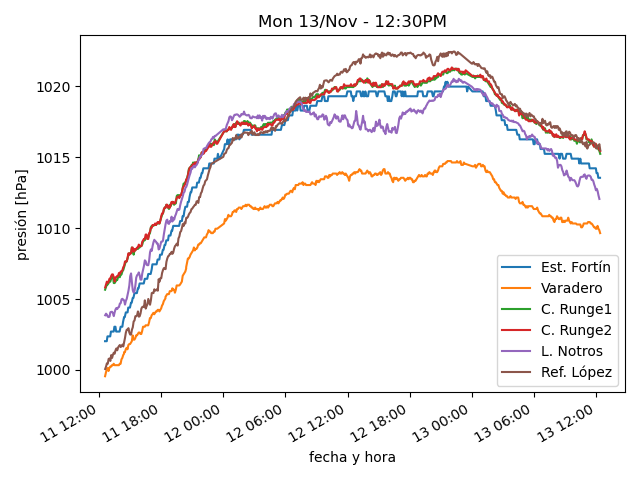
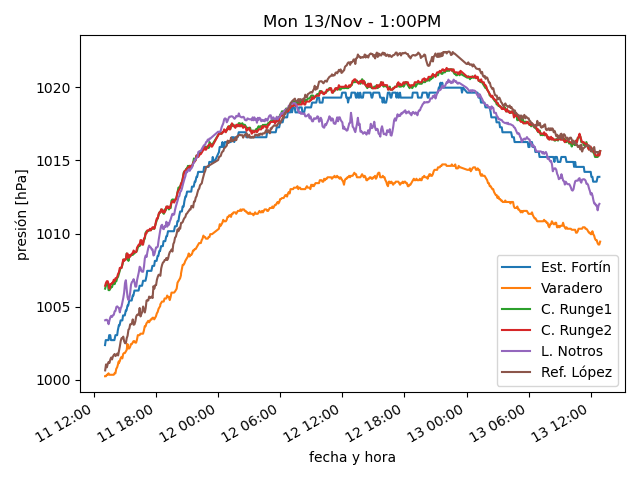
actualiza datos

diff --git a/estaciones/estacion2.html b/estaciones/estacion2.html
@@ -18,32 +18,32 @@
     </tr>
     <tr>
      <td class="stats_data">
-      12:24PM
+      12:54PM
      </td>
     </tr>
     <tr>
      <td class="stats_data">
-      7.2⁰C
+      7.7⁰C
      </td>
     </tr>
     <tr>
      <td class="stats_data">
-      4.2⁰C
+      4.4⁰C
      </td>
     </tr>
     <tr>
      <td class="stats_data">
-      80.9%
+      79.9%
      </td>
     </tr>
     <tr>
      <td class="stats_data">
-      1019.13hPa
+      1018.93hPa
      </td>
     </tr>
     <tr>
      <td class="stats_data">
-      33.8/39.3 km/hr NW
+      39.9/46.7 km/hr NW
      </td>
     </tr>
     <tr>
@@ -53,12 +53,12 @@
     </tr>
     <tr>
      <td class="stats_data">
-      9.0
+      8.0
      </td>
     </tr>
     <tr>
      <td class="stats_data">
-      1002.9 W/m²
+      861.1 W/m²
      </td>
     </tr>
    </tbody>

diff --git a/estaciones/estacion1.html b/estaciones/estacion1.html
@@ -18,32 +18,32 @@
     </tr>
     <tr>
      <td class="stats_data">
-      12:23PM
+      12:49PM
      </td>
     </tr>
     <tr>
      <td class="stats_data">
-      8.7⁰C
+      9.0⁰C
      </td>
     </tr>
     <tr>
      <td class="stats_data">
-      0.5⁰C
+      0.8⁰C
      </td>
     </tr>
     <tr>
      <td class="stats_data">
-      56.5%
+      56.3%
      </td>
     </tr>
     <tr>
      <td class="stats_data">
-      1013.55hPa
+      1013.88hPa
      </td>
     </tr>
     <tr>
      <td class="stats_data">
-      21.1/37.8 km/hr W
+      26.9/43.5 km/hr W
      </td>
     </tr>
     <tr>
@@ -53,12 +53,12 @@
     </tr>
     <tr>
      <td class="stats_data">
-      6.5
+      6.6
      </td>
     </tr>
     <tr>
      <td class="stats_data">
-      1072.0 W/m²
+      995.0 W/m²
      </td>
     </tr>
    </tbody>

diff --git a/estaciones/estacion4.html b/estaciones/estacion4.html
@@ -18,32 +18,32 @@
     </tr>
     <tr>
      <td class="stats_data">
-      12:24PM
+      12:54PM
      </td>
     </tr>
     <tr>
      <td class="stats_data">
-      8.8⁰C
+      7.7⁰C
      </td>
     </tr>
     <tr>
      <td class="stats_data">
-      2.6⁰C
+      2.4⁰C
      </td>
     </tr>
     <tr>
      <td class="stats_data">
-      64.9%
+      69.4%
      </td>
     </tr>
     <tr>
      <td class="stats_data">
-      1012.43hPa
+      1012.63hPa
      </td>
     </tr>
     <tr>
      <td class="stats_data">
-      7.2/11.3 km/hr S
+      6.5/10.0 km/hr NW
      </td>
     </tr>
     <tr>
@@ -53,12 +53,12 @@
     </tr>
     <tr>
      <td class="stats_data">
-      10.0
+      7.0
      </td>
     </tr>
     <tr>
      <td class="stats_data">
-      1044.3 W/m²
+      759.4 W/m²
      </td>
     </tr>
    </tbody>

diff --git a/estaciones/estacion3.html b/estaciones/estacion3.html
@@ -18,12 +18,12 @@
     </tr>
     <tr>
      <td class="stats_data">
-      12:24PM
+      12:54PM
      </td>
     </tr>
     <tr>
      <td class="stats_data">
-      7.3⁰C
+      6.3⁰C
      </td>
     </tr>
     <tr>
@@ -33,17 +33,17 @@
     </tr>
     <tr>
      <td class="stats_data">
-      72.9%
+      77.8%
      </td>
     </tr>
     <tr>
      <td class="stats_data">
-      1003.52hPa
+      1003.93hPa
      </td>
     </tr>
     <tr>
      <td class="stats_data">
-      16.1/24.2 km/hr NW
+      19.0/26.8 km/hr NW
      </td>
     </tr>
     <tr>
@@ -53,12 +53,12 @@
     </tr>
     <tr>
      <td class="stats_data">
-      12.0
+      8.0
      </td>
     </tr>
     <tr>
      <td class="stats_data">
-      1059.8 W/m²
+      756.5 W/m²
      </td>
     </tr>
    </tbody>

diff --git a/estaciones/estacion6.html b/estaciones/estacion6.html
@@ -18,32 +18,32 @@
     </tr>
     <tr>
      <td class="stats_data">
-      12:25PM
+      12:50PM
      </td>
     </tr>
     <tr>
      <td class="stats_data">
-      -0.6⁰C
+      -0.5⁰C
      </td>
     </tr>
     <tr>
      <td class="stats_data">
-      -2.0⁰C
+      -1.8⁰C
      </td>
     </tr>
     <tr>
      <td class="stats_data">
-      90.0%
+      91.0%
      </td>
     </tr>
     <tr>
      <td class="stats_data">
-      1016.9hPa
+      1017.0hPa
      </td>
     </tr>
     <tr>
      <td class="stats_data">
-      11.3/19.3 km/hr NE
+      11.3/24.1 km/hr NE
      </td>
     </tr>
     <tr>
@@ -58,7 +58,7 @@
     </tr>
     <tr>
      <td class="stats_data">
-      897.0 W/m²
+      900.0 W/m²
      </td>
     </tr>
    </tbody>

diff --git a/estaciones/estacion5.html b/estaciones/estacion5.html
@@ -18,17 +18,17 @@
     </tr>
     <tr>
      <td class="stats_data">
-      12:20PM
+      12:50PM
      </td>
     </tr>
     <tr>
      <td class="stats_data">
-      9.8⁰C
+      9.1⁰C
      </td>
     </tr>
     <tr>
      <td class="stats_data">
-      3.2⁰C
+      2.7⁰C
      </td>
     </tr>
     <tr>
@@ -38,7 +38,7 @@
     </tr>
     <tr>
      <td class="stats_data">
-      1014.63hPa
+      1014.6hPa
      </td>
     </tr>
     <tr>
